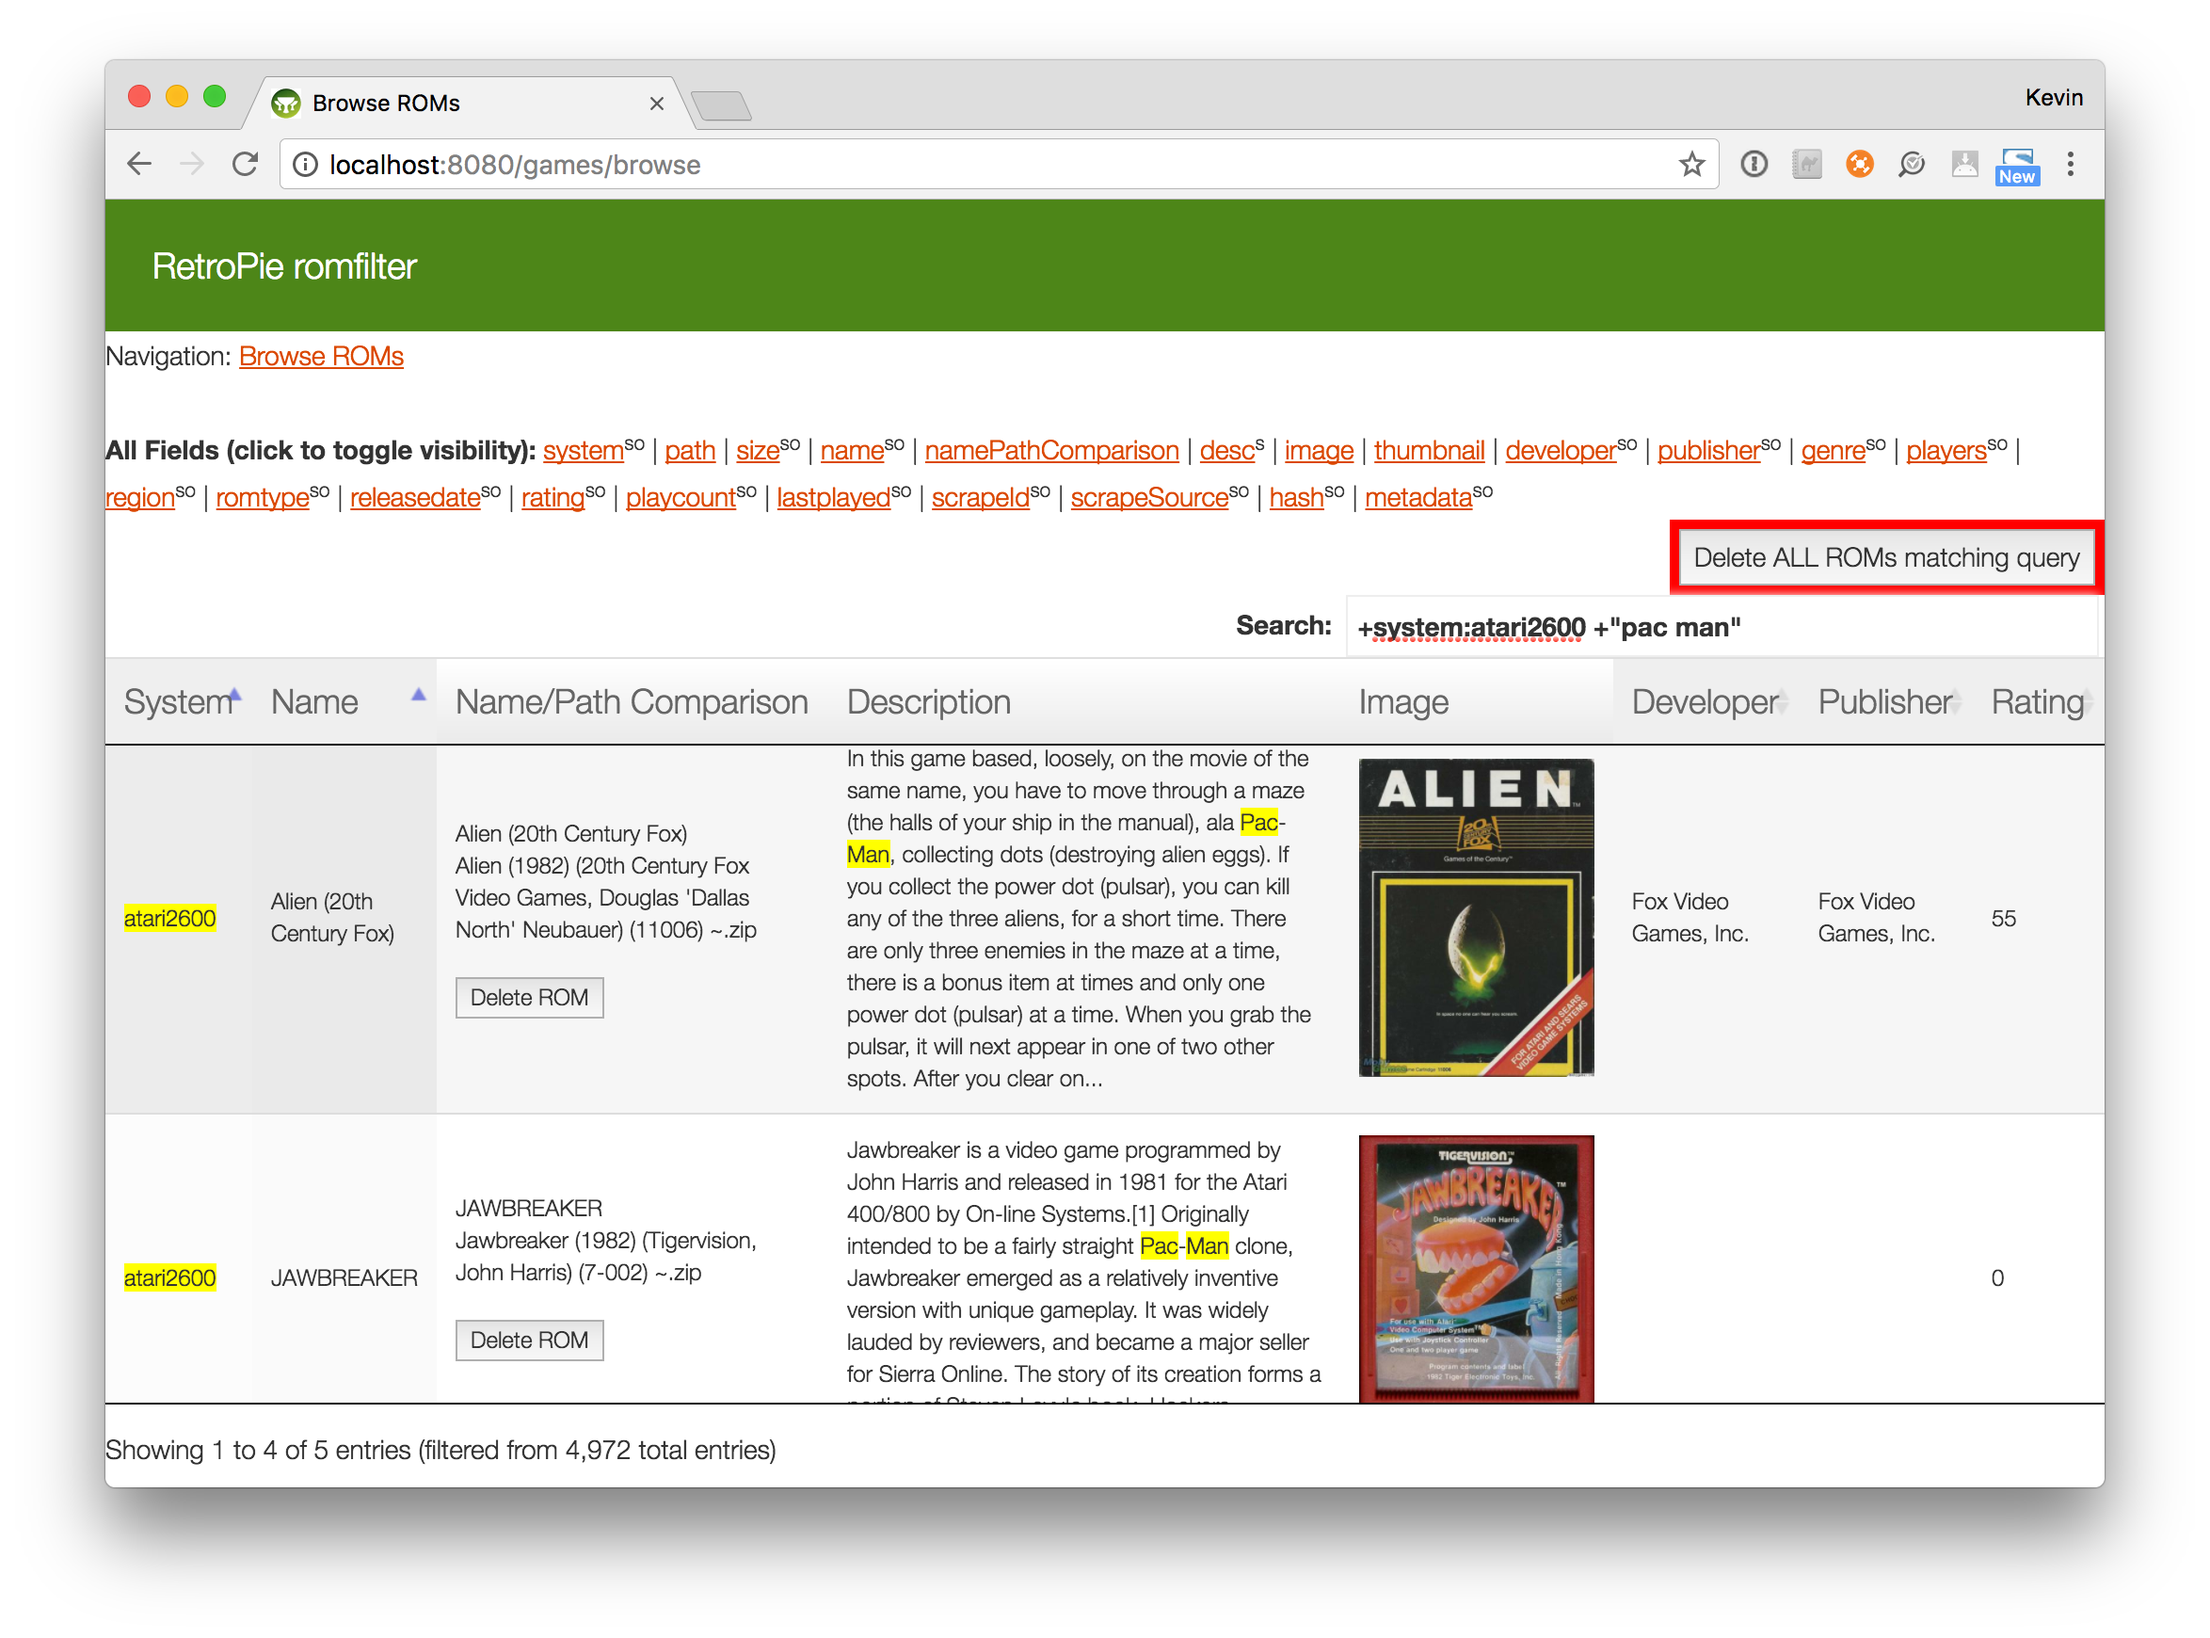
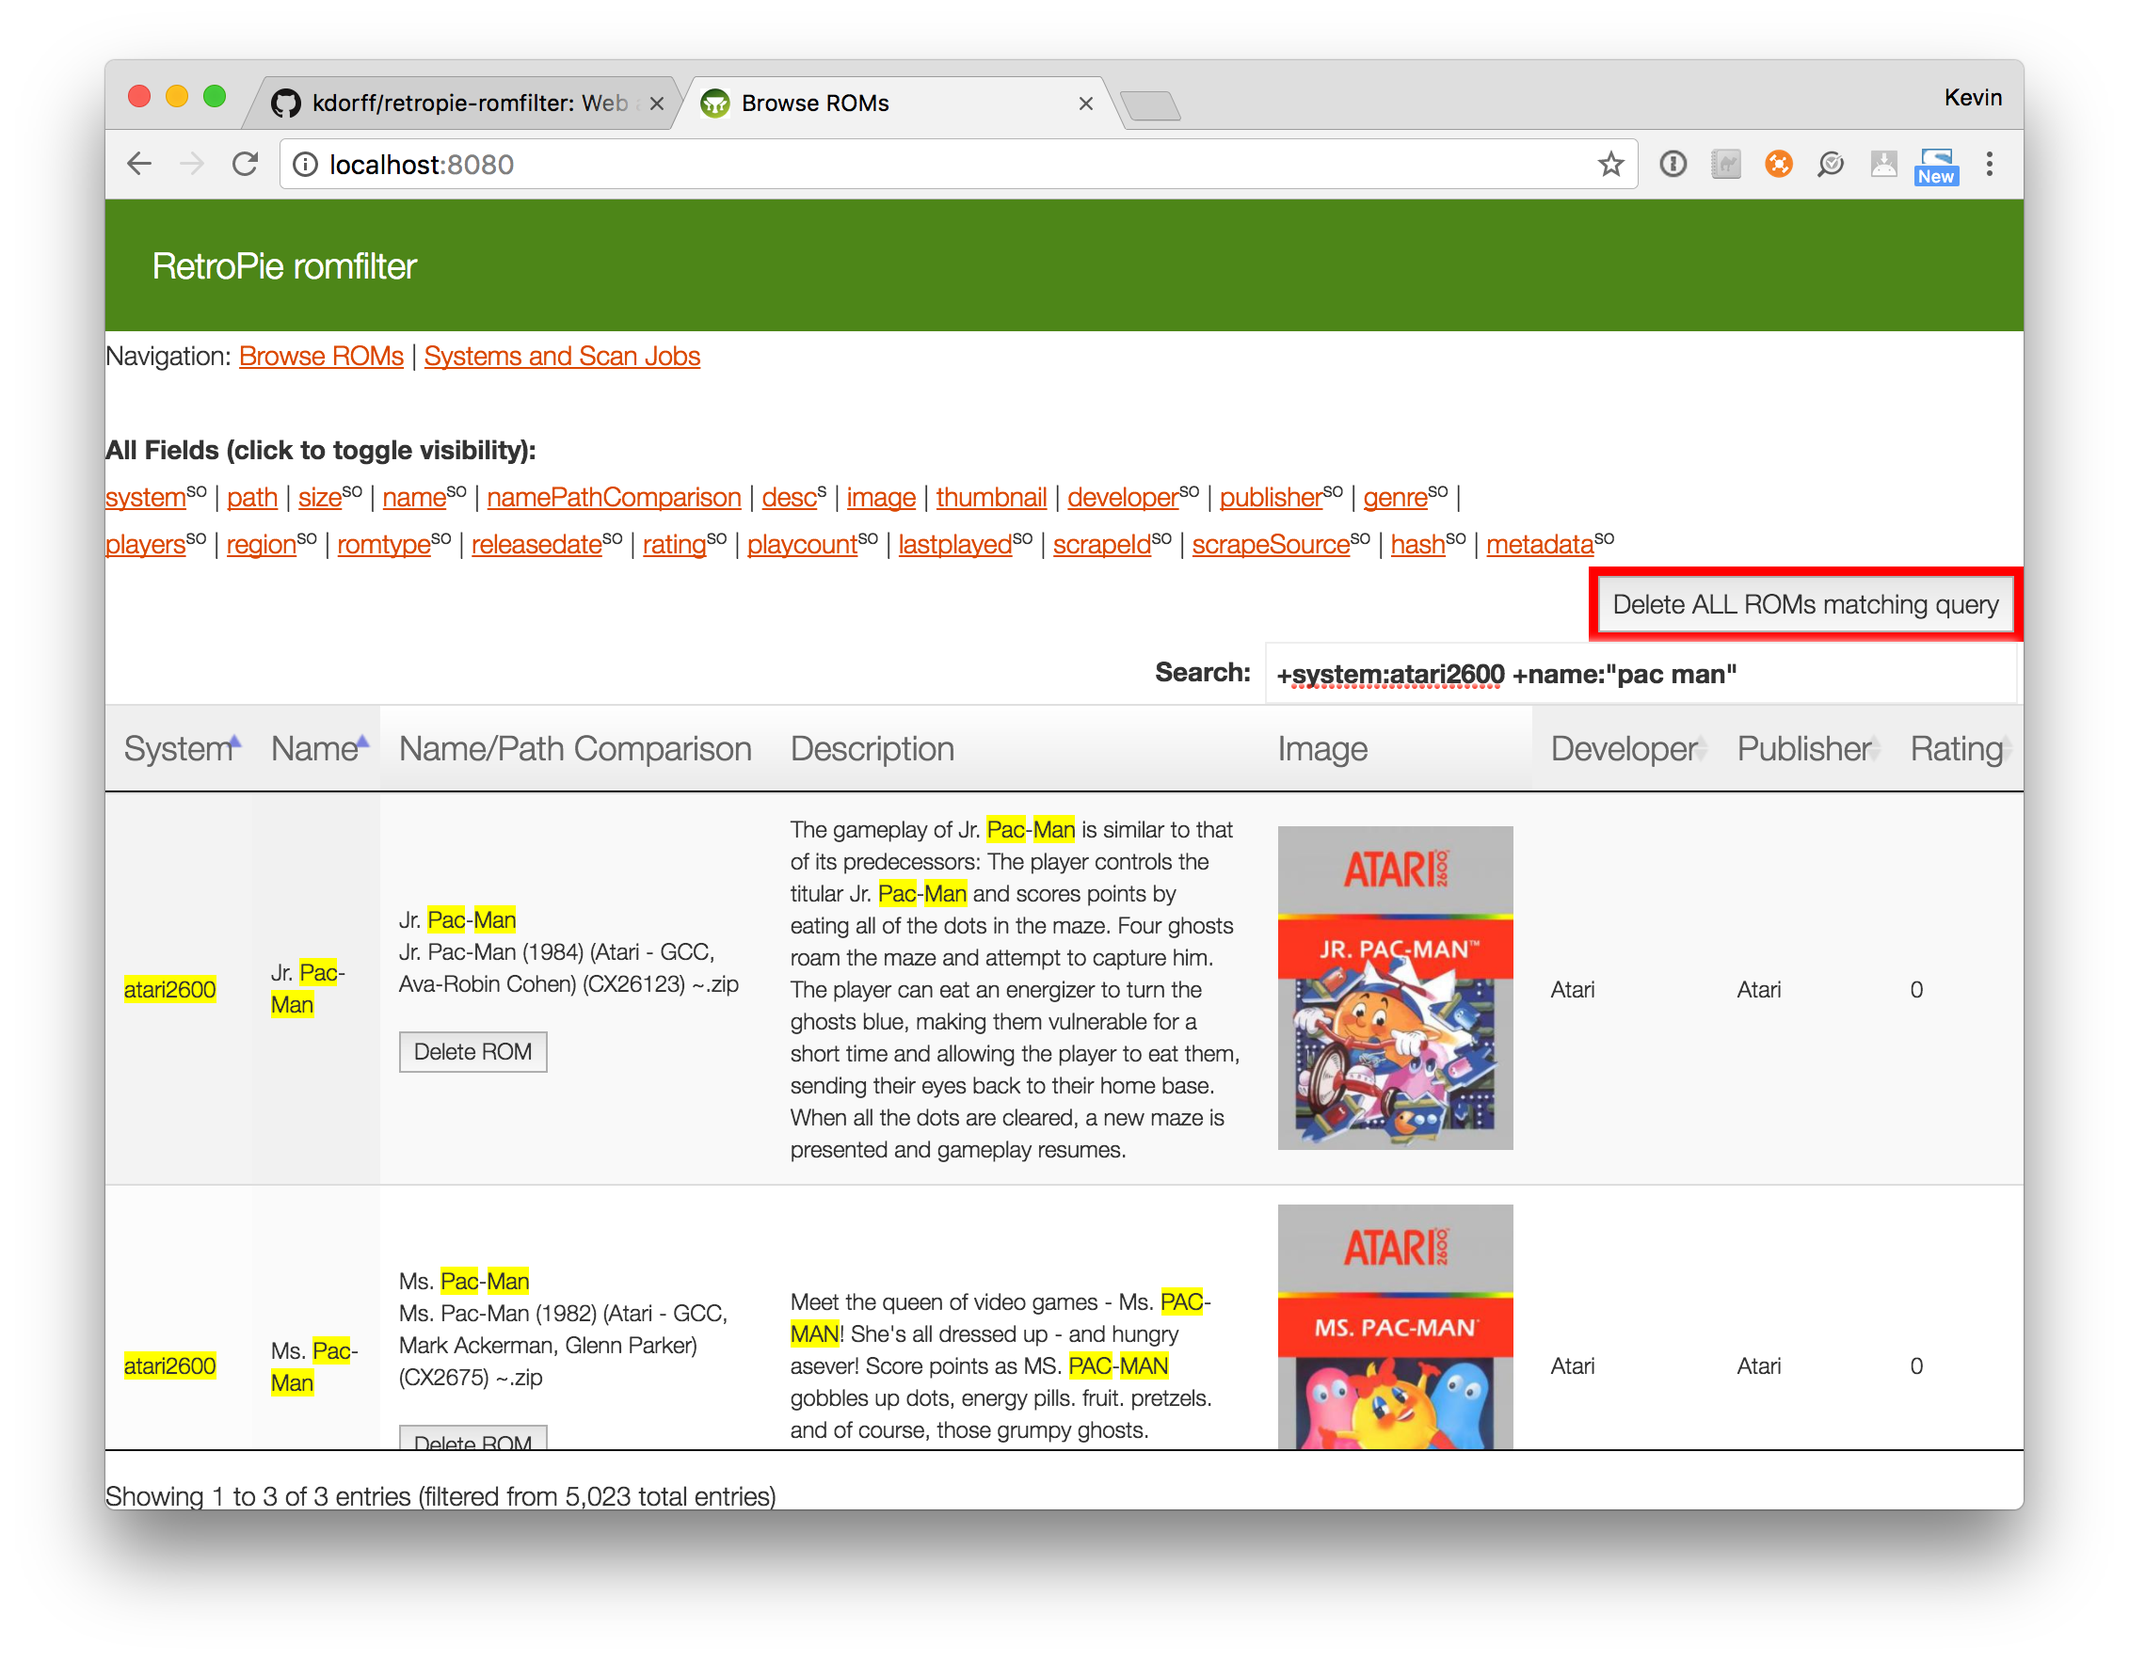
Updated readme and screencaps. youtube video incoming!

diff --git a/README.md b/README.md
@@ -1,5 +1,9 @@
 # RetroPie romfilter
 
+I was inspired to write this application after playing with
+[RetroPie-Manager](https://github.com/botolo78/RetroPie-Manager) .
+See my FAQ for why I started this app.
+
 This application is designed to let you browse and filter the list of ROMs you have installed
 across all of your systems on your RetroPie.
 
@@ -8,18 +12,24 @@ Features include
 * Delete individual ROMs
 
 You *can* run this directly on a your RetroPie if you install Oracle Java 8,
-**but I don't recommend it** unless you are prepared to reduce the amount romfilter uses
+**but at this time I don't recommend it** unless you are prepared to reduce the memory provided to romfilter
 and accept the risk that the reduced system memory might keep games from running.
 I don't know how much memory these emulators require. I'd love some advise on this.
 
-I prefer to run romfilter on another machine on the same network
-and configure communicate with your RetroPie using the SMB shares the RetroPie automatically creates.
+I currently run romfilter on another machine on the same network
+and configure it to communicate with my RetroPie using the SMB shares
+RetroPie automatically creates.
 
 # Disclaimer
 
-This code is a work in progress and is not ready for public consumption.
+This code is a very much work in progress. It is ready for early consumption but be prepared to
+delete your index every time you download a new version. As of today, there ARE index changes
+still to come (I want to support the additional flags that
+[Kid's Mode](https://github.com/RetroPie/RetroPie-Setup/wiki/Child-friendly-EmulationStation) supports.
 
-The first time you run the app it will need to scan your system. This will take a bit of time.
+The first time you run the application, the browse page will give you a Javascript alert.
+This is because you have no data in your romfilter index. You will need to scan your systems
+under Systems and Scan Jobs.
 
 ## A quick note about scraping
 
@@ -160,26 +170,37 @@ scrapeId, scrapeSource, hash
 
 **Q:** When I first start the app it takes forever before it responds.
 
-**A:** Currently it scans the roms and gamelist.xml files at first startup. This takes time. I'll make this nicer in the future.
+**A:** Update! The latest version of the application supports scanning on-demand under Systems and Scan Jobs.
 
 **Q:** Things changed in the filesystem or I have re-scraped but I don't see the changes in romfilter
 
-**A:** Yeah, I need to add on-demand re-scan. Stop the app, delete the index folder in the app's directory (romfilter-games.index), and start the app again.
+**A:** Re-scan your systems under Systems and Scan Jobs.
 
 **Q:** I'm having a problem
 
-**A:** Wait for the app to become more stable. Try deleting the index folder in the app's directory (romfilter-games.index).
+**A:** Wait for the app to become more stable. Try stopping the app, deleting the index folder in the app's directory (romfilter-games.index), and restarting the app. You will need to re-scan your systems (Systems and Scan Jobs).
 
 **Q:** Should I open this port up in my router so I can browse my roms while I am away from home or let me cousin look at it?
 
-**A:** No. This app has very little security baked in. Don't do it. Run this on your private network, only.
+**A:** No. This app has no security baked in. Don't do it. Run this on your private network, only.
 
 **Q:** Is the 'hash' the hash of the ROM?
 
-**A:**: No. That is a good idea and I may considering switch to that. But now it is a number that is combination of other fields in the entry.
+**A:**: No. It is a unique number based on a combination of other fields in the entry (path, system, rom file size).
+
+**Q**: Why did you make this app?
+
+**A**: I started to extend RetroPie-Manager (I made a PR) but it seems that that project has been mostly
+abandoned. I'm not well versed enough in Python / Django to become the new maintainer.
+After playing with Django for a few hours, I was convinced I could just make the app I needed with
+far less effort than augmenting (and maintaining) the Django app.
+I'm a Groovy / Grails programmer by day, so it was a natural choice.
+The features I needed I knew how to develop with Groovy and Grails where I didn't
+feel confident I could do what I wanted this app to do in PHP or Python in someone else's project,
+given my level of experience in those languages (and lack of libraries?).
+And my my is better.
 
 ## Running on a RetroPie
-
 
 You can (but may not want to) run this application directly on the Raspberry Pi. The setup
 instructions are about the same as the Mac version, but even simpler as you shouldn't need
@@ -207,3 +228,6 @@ on another system in your LAN
 
 Browsing filtered list of ROMS
 ![Filtered, highlighted list of ROMS](https://github.com/kdorff/retropie-romfilter/blob/master/grails-app/assets/images/screenshots/browse.png)
+
+Systems and Scan Jobs
+![Filtered, highlighted list of ROMS](https://github.com/kdorff/retropie-romfilter/blob/master/grails-app/assets/images/screenshots/scanning.png)
